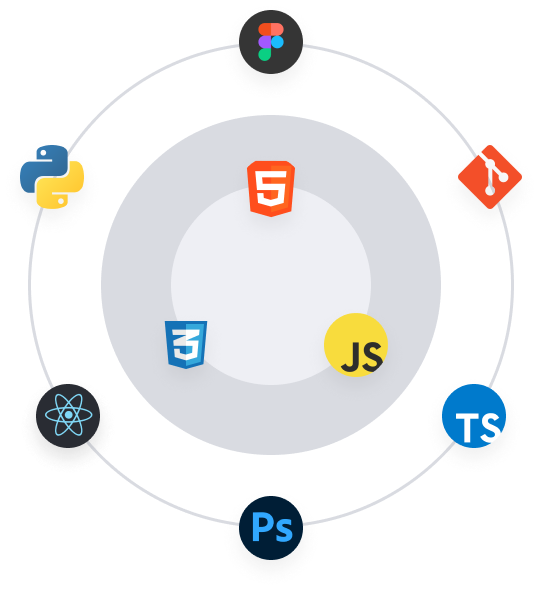
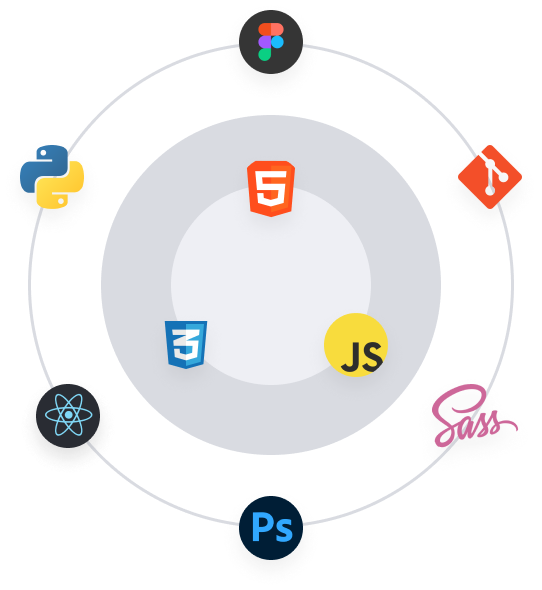
V1.2.0

Changed region(s): [[0.797, 0.6407, 0.9742, 0.7627]]

diff --git a/index.html b/index.html
@@ -72,7 +72,7 @@
         <section>
             <div class="container">
                 <h1>Acerca de mi</h1>
-                <p>Como front-end developer, trabajo con <b>HTML, CSS, JS y Git</b>. Para diseño, tengo conocimiento en <b>Figma</b> y <b>Photoshop</b>. Mejoro y aprendo constantemente, actualmente formándome con <b>Python, ReactJS</b>, y <b>TypeScript</b>. </p>
+                <p>Como front-end developer, trabajo con <b>HTML, CSS, JS y Git</b>. Para diseño, tengo conocimiento en <b>Figma</b> y <b>Photoshop</b>. Mejoro y aprendo constantemente, actualmente formándome con <b>Python, ReactJS</b>, y <b>Sass</b>. </p>
             </div>
             <img src="img/tecnologia.png" alt="Hello Wolrd!" class="img-grande">
         </section>
@@ -84,7 +84,7 @@
                     <div class="texto-educacion">
                         <img src="img/edu1.png" alt="edu1" width="32px">
                         <h2>Licenciatura en Física</h2>
-                        <p>BUAP 2020-2022 (Pausada)</p>
+                        <p>BUAP 2023-presente</p>
                     </div>
 
                     <div class="texto-educacion">

diff --git a/css/style.css b/css/style.css
@@ -225,6 +225,8 @@ section{
     display: flex;
     justify-content: space-between;
     align-items: flex-start;
+
+    margin-top: 32px;
 }
 
 .texto-educacion{
@@ -373,6 +375,11 @@ footer p{
 
     .educacion-items{
         gap: 64px;
+        width: 80%;
+    }
+
+    .texto-educacion{
+        width: 100%;
     }
 
     .portafolio-item{
@@ -405,10 +412,6 @@ footer p{
     
     p{
         font-size: 18px;
-    }
-
-    .texto-educacion{
-        width: 100%;
     }
 
 

diff --git a/css/reset.css b/css/reset.css
@@ -49,6 +49,7 @@ table {
 
 a{
 	text-decoration: none;
+	color: white;
 }
 
 a:visited{
